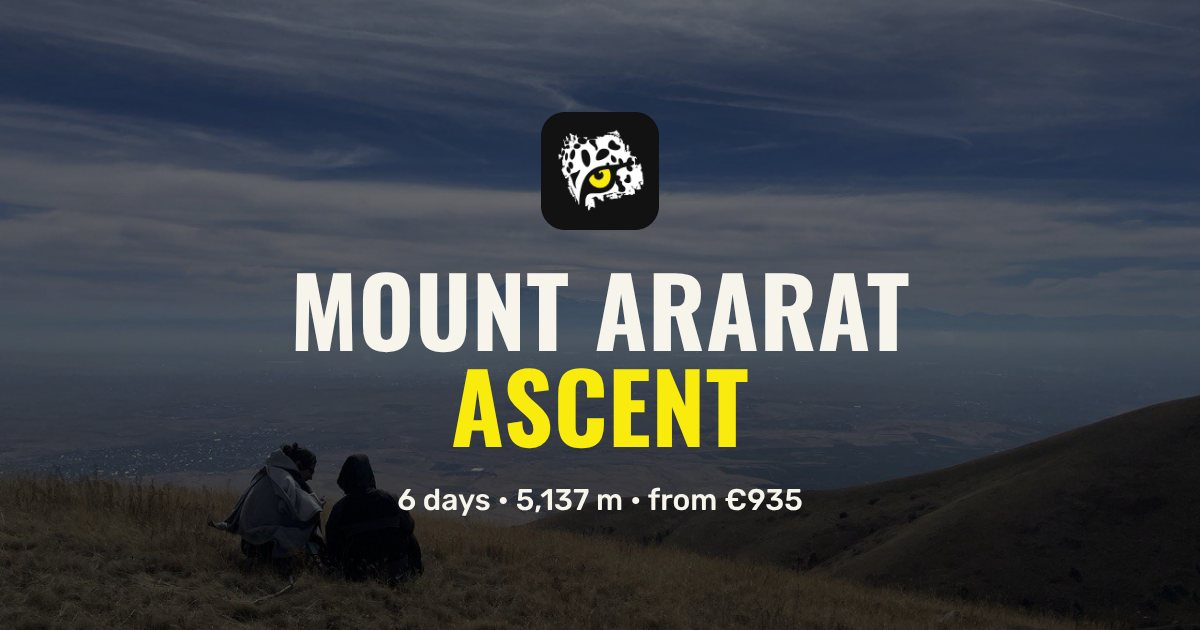
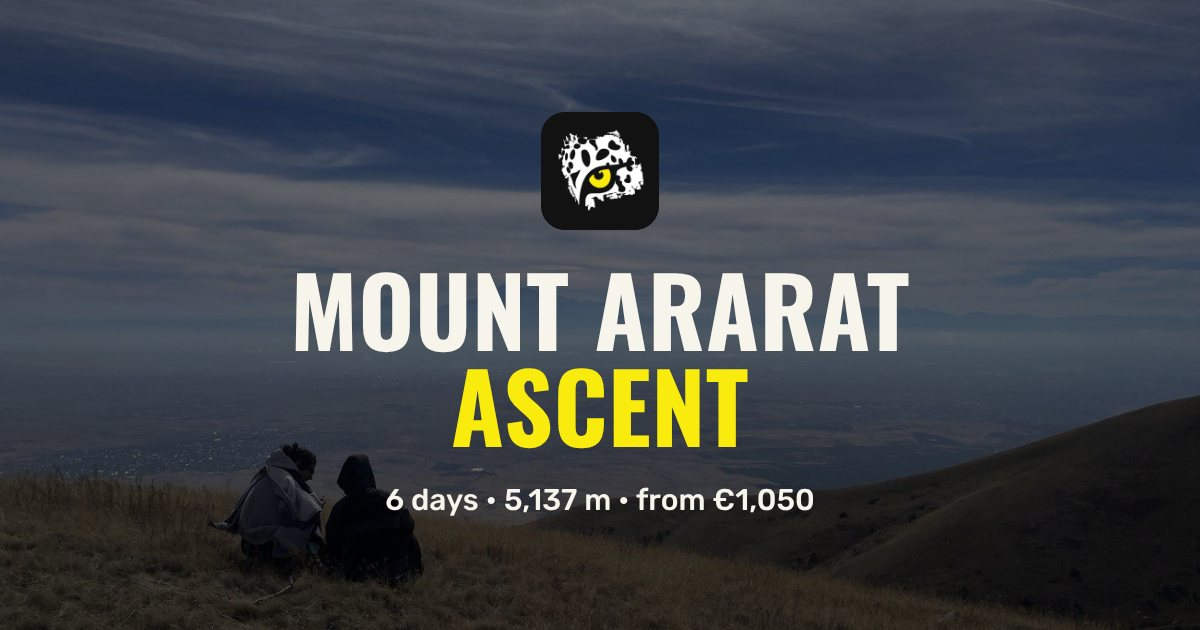
Ararat: price EUR 1,050 (424 000 AMD / 96 600 RUB)
Claude-Session: https://claude.ai/code/session_01UELaXKaEtKLHJMR8bpMREh

Changed region(s): [[0.3083, 0.754, 0.6783, 0.8143]]

diff --git a/ararat/index.html b/ararat/index.html
@@ -18,7 +18,7 @@
 <link rel="apple-touch-icon" href="../dolmatur/img/apple-touch-icon.png">
 <meta name="apple-mobile-web-app-title" content="Арарат">
 <meta name="theme-color" content="#121212">
-<meta name="description" content="Восхождение на Арарат, 5 137 м: 6 дней из Еревана через Грузию и Турцию, лагеря 3 200 и 4 200 м, без технической подготовки. От 86 000 ₽ / 378 000 ֏.">
+<meta name="description" content="Восхождение на Арарат, 5 137 м: 6 дней из Еревана через Грузию и Турцию, лагеря 3 200 и 4 200 м, без технической подготовки. От 96 600 ₽ / 424 000 ֏ / €1 050.">
 <link rel="preconnect" href="https://fonts.googleapis.com">
 <link rel="preconnect" href="https://fonts.gstatic.com" crossorigin>
 <link rel="stylesheet" href="https://fonts.googleapis.com/css2?family=Oswald:wght@300;400;500;600;700&family=Rubik:wght@400;500;600&family=Noto+Sans+Armenian:wdth,wght@62.5..100,400..700&display=swap">
@@ -216,7 +216,7 @@ details p{margin-top:10px;color:var(--muted);max-width:62ch}
     <span class="alt"><span lang="ru">Из Еревана · 6 дней · июль — сентябрь</span><span lang="en">From Yerevan · 6 days · July — September</span><span lang="hy">Երևանից · 6 օր · հուլիս — սեպտեմբեր</span></span>
     <h1><span lang="ru">Арарат<br><em>5 137 м</em></span><span lang="en">Ararat<br><em>5,137 m</em></span><span lang="hy">Արարատ<br><em>5 137 մ</em></span></h1>
     <p class="sub"><span lang="ru">Гора, которую видно из каждого ереванского окна. Едем к ней с другой стороны границы и за три дня поднимаемся на вершину. Техника не нужна — нужны сила воли и желание дойти.</span><span lang="en">The mountain you see from every window in Yerevan. We drive round to the other side of the border and reach the summit in three days. No technical skills needed — only willpower and the wish to get there.</span><span lang="hy">Լեռը, որը երևում է Երևանի յուրաքանչյուր պատուհանից։ Գնում ենք սահմանի մյուս կողմ և երեք օրում բարձրանում գագաթ։ Տեխնիկա պետք չէ՝ պետք է կամքի ուժ և հասնելու ցանկություն։</span></p>
-    <div class="row"><a class="cta" href="#price"><span lang="ru">Хочу на Арарат</span><span lang="en">Book Ararat</span><span lang="hy">Ուզում եմ Արարատ</span></a><span class="price-chip"><span lang="ru">от 86 000 ₽</span><span lang="en">from €935</span><span lang="hy">378 000 ֏-ից</span><small lang="ru">с человека</small><small lang="en">per person</small><small lang="hy">մեկ անձի համար</small></span></div>
+    <div class="row"><a class="cta" href="#price"><span lang="ru">Хочу на Арарат</span><span lang="en">Book Ararat</span><span lang="hy">Ուզում եմ Արարատ</span></a><span class="price-chip"><span lang="ru">от 96 600 ₽</span><span lang="en">from €1,050</span><span lang="hy">424 000 ֏-ից</span><small lang="ru">с человека</small><small lang="en">per person</small><small lang="hy">մեկ անձի համար</small></span></div>
   </div>
 </section>
 
@@ -343,7 +343,7 @@ details p{margin-top:10px;color:var(--muted);max-width:62ch}
 <section class="price" id="price"><div class="wrap">
   <div>
     <span class="eyebrow" style="color:var(--eye-ink)"><span lang="ru">Цена</span><span lang="en">Price</span><span lang="hy">Գին</span></span>
-    <div class="big"><span lang="ru">от 86 000 ₽</span><span lang="en">from €935</span><span lang="hy">378 000 ֏-ից</span><small><span lang="ru">с человека, 6 дней, при группе от 10 человек</span><span lang="en">per person, 6 days, groups of 10 or more</span><span lang="hy">մեկ անձի համար, 6 օր, 10 հոգուց խմբի դեպքում</span><span class="fx" style="display:block;font-family:var(--body);font-size:16px;font-weight:500;letter-spacing:0;text-transform:none;opacity:.8;margin-top:8px"><span lang="ru">378 000 ֏ · ≈ €935 · ≈ $1 050</span><span lang="en">≈ 86,000 ₽ · 378,000 AMD · ≈ $1,050</span><span lang="hy">≈ 86 000 ₽ · ≈ €935 · ≈ $1 050</span></span></small></div>
+    <div class="big"><span lang="ru">от 96 600 ₽</span><span lang="en">from €1,050</span><span lang="hy">424 000 ֏-ից</span><small><span lang="ru">с человека, 6 дней, при группе от 10 человек</span><span lang="en">per person, 6 days, groups of 10 or more</span><span lang="hy">մեկ անձի համար, 6 օր, 10 հոգուց խմբի դեպքում</span><span class="fx" style="display:block;font-family:var(--body);font-size:16px;font-weight:500;letter-spacing:0;text-transform:none;opacity:.8;margin-top:8px"><span lang="ru">424 000 ֏ · ≈ €1 050</span><span lang="en">≈ 96,600 ₽ · 424,000 AMD</span><span lang="hy">≈ 96 600 ₽ · ≈ €1 050</span></span></small></div>
     <ul>
       <li><b><span lang="ru">Для меньшей группы — цену считаем отдельно</span><span lang="en">Smaller groups — priced on request</span><span lang="hy">Ավելի փոքր խմբի համար՝ գինը հաշվում ենք առանձին</span></b></li>
       <li><span lang="ru">Опыт альпинизма не нужен</span><span lang="en">No mountaineering experience needed</span><span lang="hy">Ալպինիզմի փորձ պետք չէ</span></li>

diff --git a/tools/newtours/ararat_body.html b/tools/newtours/ararat_body.html
@@ -9,7 +9,7 @@
     <span class="alt"><span lang="ru">Из Еревана · 6 дней · июль — сентябрь</span><span lang="en">From Yerevan · 6 days · July — September</span><span lang="hy">Երևանից · 6 օր · հուլիս — սեպտեմբեր</span></span>
     <h1><span lang="ru">Арарат<br><em>5 137 м</em></span><span lang="en">Ararat<br><em>5,137 m</em></span><span lang="hy">Արարատ<br><em>5 137 մ</em></span></h1>
     <p class="sub"><span lang="ru">Гора, которую видно из каждого ереванского окна. Едем к ней с другой стороны границы и за три дня поднимаемся на вершину. Техника не нужна — нужны сила воли и желание дойти.</span><span lang="en">The mountain you see from every window in Yerevan. We drive round to the other side of the border and reach the summit in three days. No technical skills needed — only willpower and the wish to get there.</span><span lang="hy">Լեռը, որը երևում է Երևանի յուրաքանչյուր պատուհանից։ Գնում ենք սահմանի մյուս կողմ և երեք օրում բարձրանում գագաթ։ Տեխնիկա պետք չէ՝ պետք է կամքի ուժ և հասնելու ցանկություն։</span></p>
-    <div class="row"><a class="cta" href="#price"><span lang="ru">Хочу на Арарат</span><span lang="en">Book Ararat</span><span lang="hy">Ուզում եմ Արարատ</span></a><span class="price-chip"><span lang="ru">от 86 000 ₽</span><span lang="en">from €935</span><span lang="hy">378 000 ֏-ից</span><small lang="ru">с человека</small><small lang="en">per person</small><small lang="hy">մեկ անձի համար</small></span></div>
+    <div class="row"><a class="cta" href="#price"><span lang="ru">Хочу на Арарат</span><span lang="en">Book Ararat</span><span lang="hy">Ուզում եմ Արարատ</span></a><span class="price-chip"><span lang="ru">от 96 600 ₽</span><span lang="en">from €1,050</span><span lang="hy">424 000 ֏-ից</span><small lang="ru">с человека</small><small lang="en">per person</small><small lang="hy">մեկ անձի համար</small></span></div>
   </div>
 </section>
 
@@ -136,7 +136,7 @@
 <section class="price" id="price"><div class="wrap">
   <div>
     <span class="eyebrow" style="color:var(--eye-ink)"><span lang="ru">Цена</span><span lang="en">Price</span><span lang="hy">Գին</span></span>
-    <div class="big"><span lang="ru">от 86 000 ₽</span><span lang="en">from €935</span><span lang="hy">378 000 ֏-ից</span><small><span lang="ru">с человека, 6 дней, при группе от 10 человек</span><span lang="en">per person, 6 days, groups of 10 or more</span><span lang="hy">մեկ անձի համար, 6 օր, 10 հոգուց խմբի դեպքում</span><span class="fx" style="display:block;font-family:var(--body);font-size:16px;font-weight:500;letter-spacing:0;text-transform:none;opacity:.8;margin-top:8px"><span lang="ru">378 000 ֏ · ≈ €935 · ≈ $1 050</span><span lang="en">≈ 86,000 ₽ · 378,000 AMD · ≈ $1,050</span><span lang="hy">≈ 86 000 ₽ · ≈ €935 · ≈ $1 050</span></span></small></div>
+    <div class="big"><span lang="ru">от 96 600 ₽</span><span lang="en">from €1,050</span><span lang="hy">424 000 ֏-ից</span><small><span lang="ru">с человека, 6 дней, при группе от 10 человек</span><span lang="en">per person, 6 days, groups of 10 or more</span><span lang="hy">մեկ անձի համար, 6 օր, 10 հոգուց խմբի դեպքում</span><span class="fx" style="display:block;font-family:var(--body);font-size:16px;font-weight:500;letter-spacing:0;text-transform:none;opacity:.8;margin-top:8px"><span lang="ru">424 000 ֏ · ≈ €1 050</span><span lang="en">≈ 96,600 ₽ · 424,000 AMD</span><span lang="hy">≈ 96 600 ₽ · ≈ €1 050</span></span></small></div>
     <ul>
       <li><b><span lang="ru">Для меньшей группы — цену считаем отдельно</span><span lang="en">Smaller groups — priced on request</span><span lang="hy">Ավելի փոքր խմբի համար՝ գինը հաշվում ենք առանձին</span></b></li>
       <li><span lang="ru">Опыт альпинизма не нужен</span><span lang="en">No mountaineering experience needed</span><span lang="hy">Ալպինիզմի փորձ պետք չէ</span></li>

diff --git a/index.html b/index.html
@@ -60,7 +60,7 @@ a.gb:hover .gb-btn{background:#000}
 <a class="c" href="ski/"><img lang="ru" src="img/cards/ski-ru.jpg" alt="Горные лыжи с нуля"><img lang="en" src="img/cards/ski-en.jpg" alt="Skiing from scratch"><img lang="hy" src="img/cards/ski-hy.jpg" alt="Լեռնադահուկ զրոյից"><div><span lang="ru">Горные лыжи с нуля · 7 дней · зима</span><span lang="en">Skiing from scratch · 7 days · winter</span><span lang="hy">Լեռնադահուկ զրոյից · 7 օր · ձմեռ</span></div></a>
 <a class="c" href="skaly-i-vulkan/"><img lang="ru" src="img/cards/rocks-ru.jpg" alt="Скалы и вулканы"><img lang="en" src="img/cards/rocks-en.jpg" alt="Rocks and volcanoes"><img lang="hy" src="img/cards/rocks-hy.jpg" alt="Ժայռեր և հրաբուխներ"><div><span lang="ru">Скалы и вулканы · 7 дней · апрель — ноябрь</span><span lang="en">Rocks and volcanoes · 7 days · April — November</span><span lang="hy">Ժայռեր և հրաբուխներ · 7 օր · ապրիլ — նոյեմբեր</span></div></a>
 <a class="c" href="aragats/"><img lang="ru" src="img/cards/aragats-ru.jpg" alt="Арагац, Северная вершина"><img lang="en" src="img/cards/aragats-en.jpg" alt="Aragats, North peak"><img lang="hy" src="img/cards/aragats-hy.jpg" alt="Արագած, Հյուսիսային գագաթ"><div><span lang="ru">Арагац, Северная вершина · 1 день · 13 700 ₽</span><span lang="en">Aragats, North peak · 1 day · €149</span><span lang="hy">Արագած, Հյուսիսային գագաթ · 1 օր · 60 000 ֏</span></div></a>
-<a class="c" href="ararat/"><img lang="ru" src="img/cards/ararat-ru.jpg" alt="Восхождение на Арарат"><img lang="en" src="img/cards/ararat-en.jpg" alt="Mount Ararat ascent"><img lang="hy" src="img/cards/ararat-hy.jpg" alt="Վերելք Արարատ"><div><span lang="ru">Восхождение на Арарат · 6 дней · от 86 000 ₽</span><span lang="en">Mount Ararat ascent · 6 days · from €935</span><span lang="hy">Վերելք Արարատ · 6 օր · 378 000 ֏-ից</span></div></a>
+<a class="c" href="ararat/"><img lang="ru" src="img/cards/ararat-ru.jpg" alt="Восхождение на Арарат"><img lang="en" src="img/cards/ararat-en.jpg" alt="Mount Ararat ascent"><img lang="hy" src="img/cards/ararat-hy.jpg" alt="Վերելք Արարատ"><div><span lang="ru">Восхождение на Арарат · 6 дней · от 96 600 ₽</span><span lang="en">Mount Ararat ascent · 6 days · from €1,050</span><span lang="hy">Վերելք Արարատ · 6 օր · 424 000 ֏-ից</span></div></a>
 <a class="c" href="trekking/"><img lang="ru" src="img/cards/trek-ru.jpg" alt="Армения пешком"><img lang="en" src="img/cards/trek-en.jpg" alt="Armenia on foot"><img lang="hy" src="img/cards/trek-hy.jpg" alt="Հայաստան ոտքով"><div><span lang="ru">Армения пешком · 7 дней · 95 000 ₽ · май — октябрь</span><span lang="en">Armenia on foot · 7 days · €1,030 · May — October</span><span lang="hy">Հայաստան ոտքով · 7 օր · 417 000 ֏ · մայիս — հոկտեմբեր</span></div></a>
 <a class="c" href="extreme-wine/"><img lang="ru" src="img/cards/wine-ru.jpg" alt="Экстрим вайн тур"><img lang="en" src="img/cards/wine-en.jpg" alt="Extreme wine tour"><img lang="hy" src="img/cards/wine-hy.jpg" alt="Էքստրիմ գինու տուր"><div><span lang="ru">Экстрим вайн тур · 5 дней · 89 000 ₽</span><span lang="en">Extreme wine tour · 5 days · €965</span><span lang="hy">Էքստրիմ գինու տուր · 5 օր · 391 000 ֏</span></div></a>
 <a class="c" href="weekend/"><img lang="ru" src="img/cards/weekend-ru.jpg" alt="Скалы за выходные"><img lang="en" src="img/cards/weekend-en.jpg" alt="Rocks in a weekend"><img lang="hy" src="img/cards/weekend-hy.jpg" alt="Ժայռեր հանգստյան օրերին"><div><span lang="ru">Скалы за выходные · 2 дня из Еревана</span><span lang="en">Rocks in a weekend · 2 days from Yerevan</span><span lang="hy">Ժայռեր հանգստյան օրերին · 2 օր Երևանից</span></div></a>

diff --git a/tools/newtours/build.py b/tools/newtours/build.py
@@ -83,7 +83,7 @@ PAGES = {
    card='aragats'),
  'ararat': dict(
    title='Восхождение на Арарат — White Irbis',
-   desc='Восхождение на Арарат, 5 137 м: 6 дней из Еревана через Грузию и Турцию, лагеря 3 200 и 4 200 м, без технической подготовки. От 86 000 ₽ / 378 000 ֏.',
+   desc='Восхождение на Арарат, 5 137 м: 6 дней из Еревана через Грузию и Турцию, лагеря 3 200 и 4 200 м, без технической подготовки. От 96 600 ₽ / 424 000 ֏ / €1 050.',
    ogdesc='6 дней из Еревана: Догубаязит, лагеря 3 200 и 4 200 м, ночной штурм и вершина 5 137 м. Без технической подготовки.',
    apptitle='Арарат', fs={'ru':120,'en':120,'hy':92},
    msg={'ru':'Здравствуйте! Хочу на Арарат','en':'Hi! I would like to climb Mount Ararat','hy':'Բարև Ձեզ։ Ուզում եմ բարձրանալ Արարատ'},
